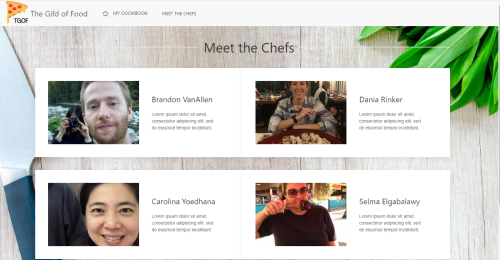
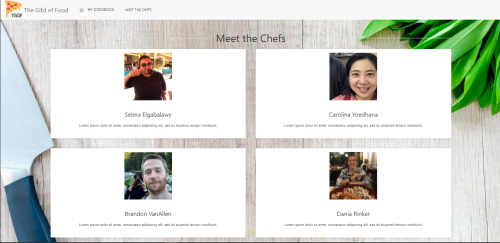
update meet the chef image.

diff --git a/README.md b/README.md
@@ -28,7 +28,7 @@ In the future we hope to implement better API endpoints that provide better data
 ![Recipe Page 1](./Assets/recipe1_2.png)
 ### Recipe 2
 ![Recipe Page 2](./Assets/recipe2_2.png)
-### Step 4
+### Meet the chefs
 ![Meet the Team Page](./Assets/meetchefs2.png)
 
 ## Collaborators
